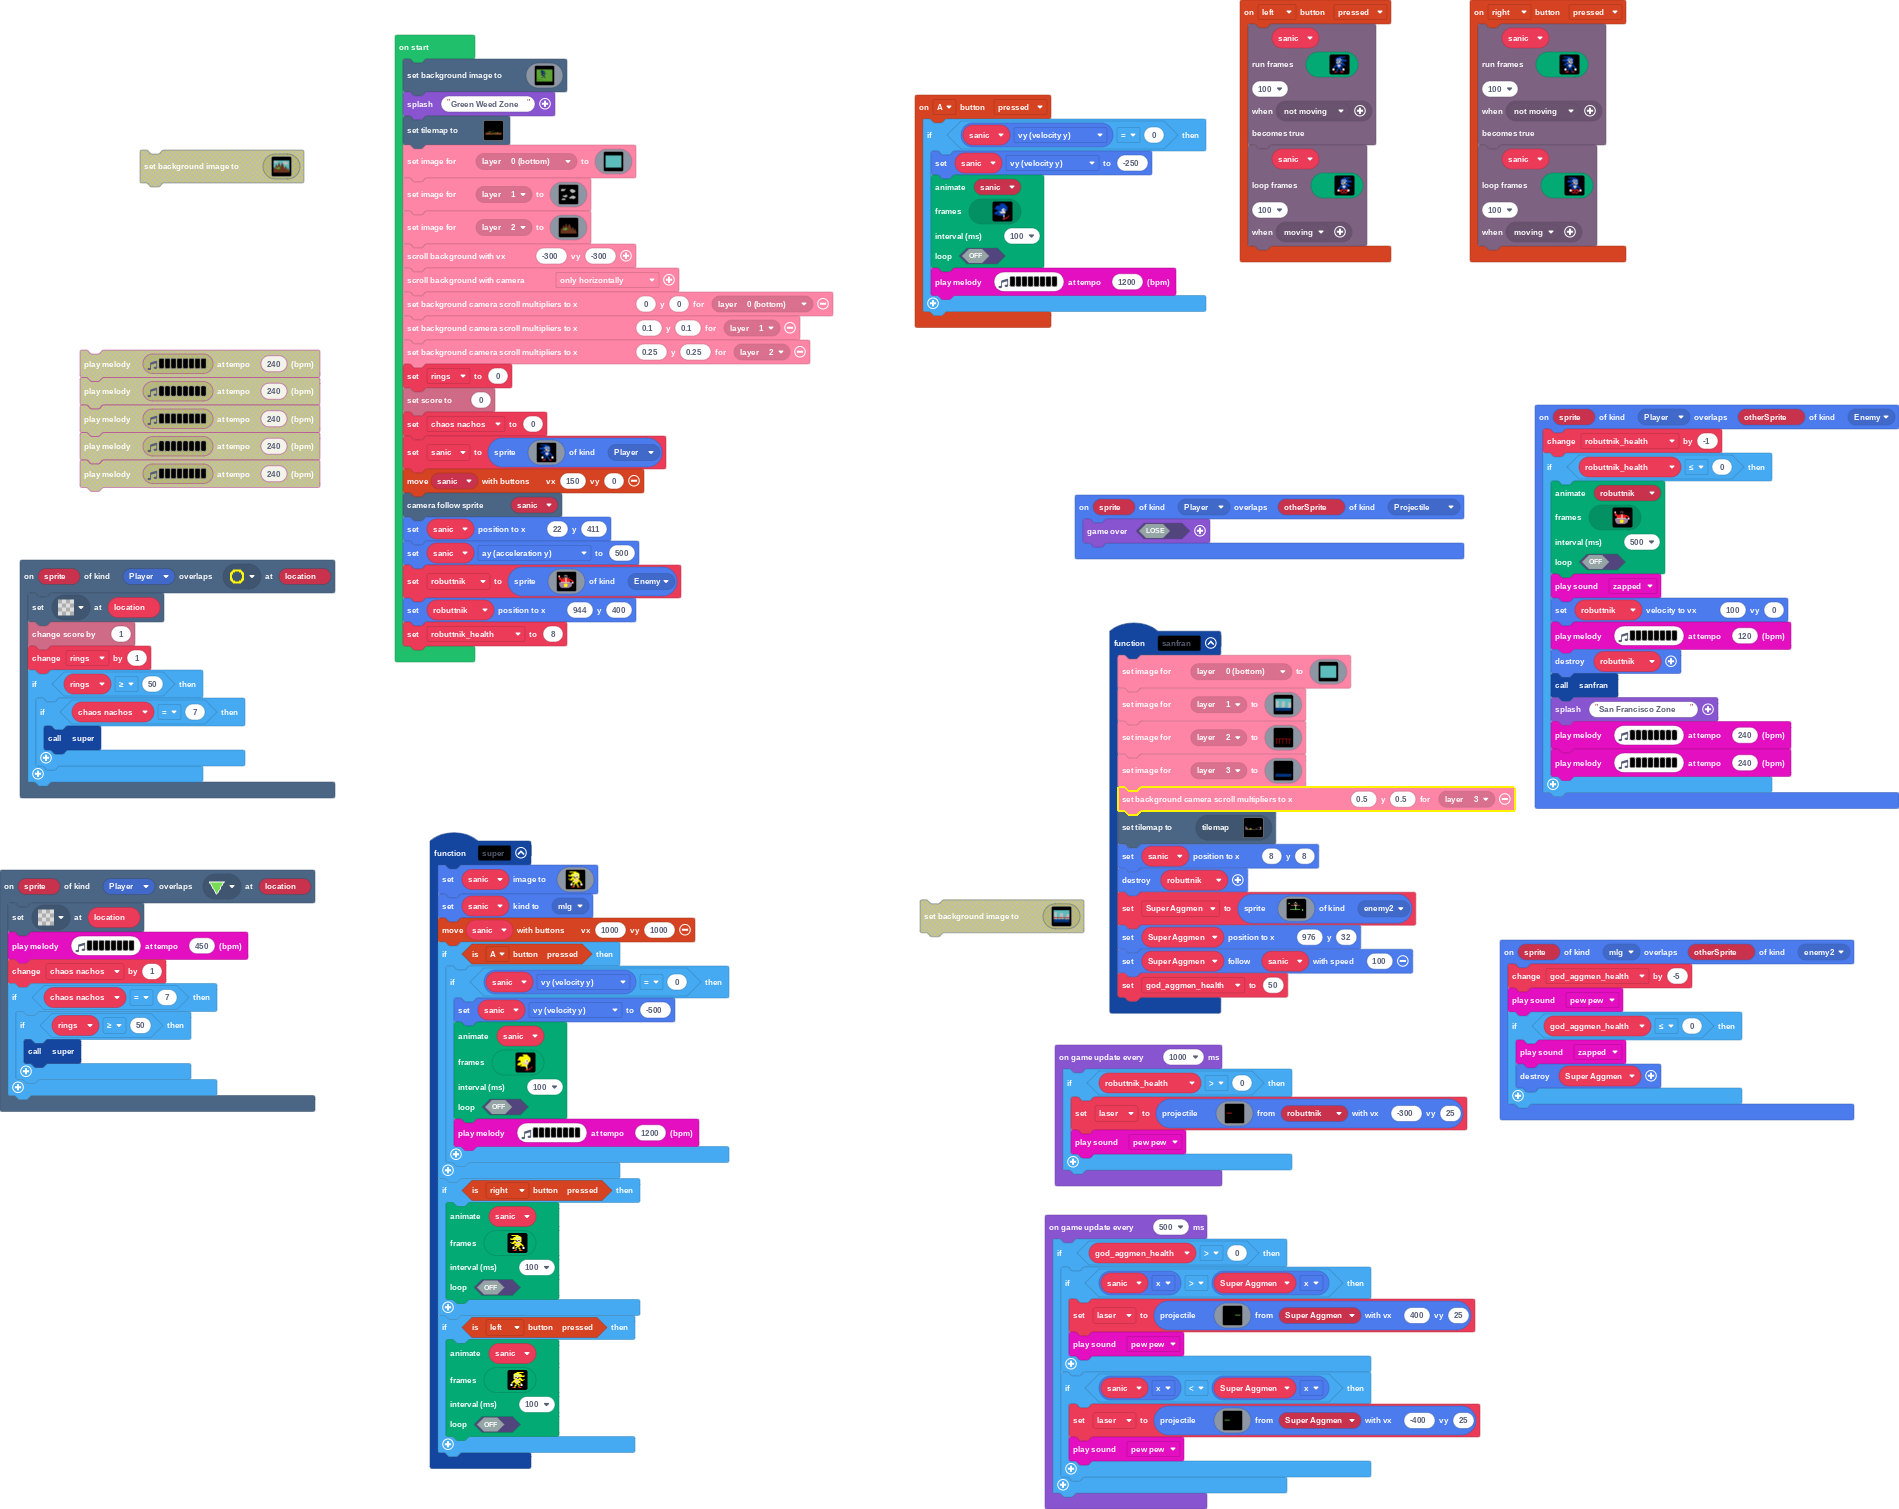
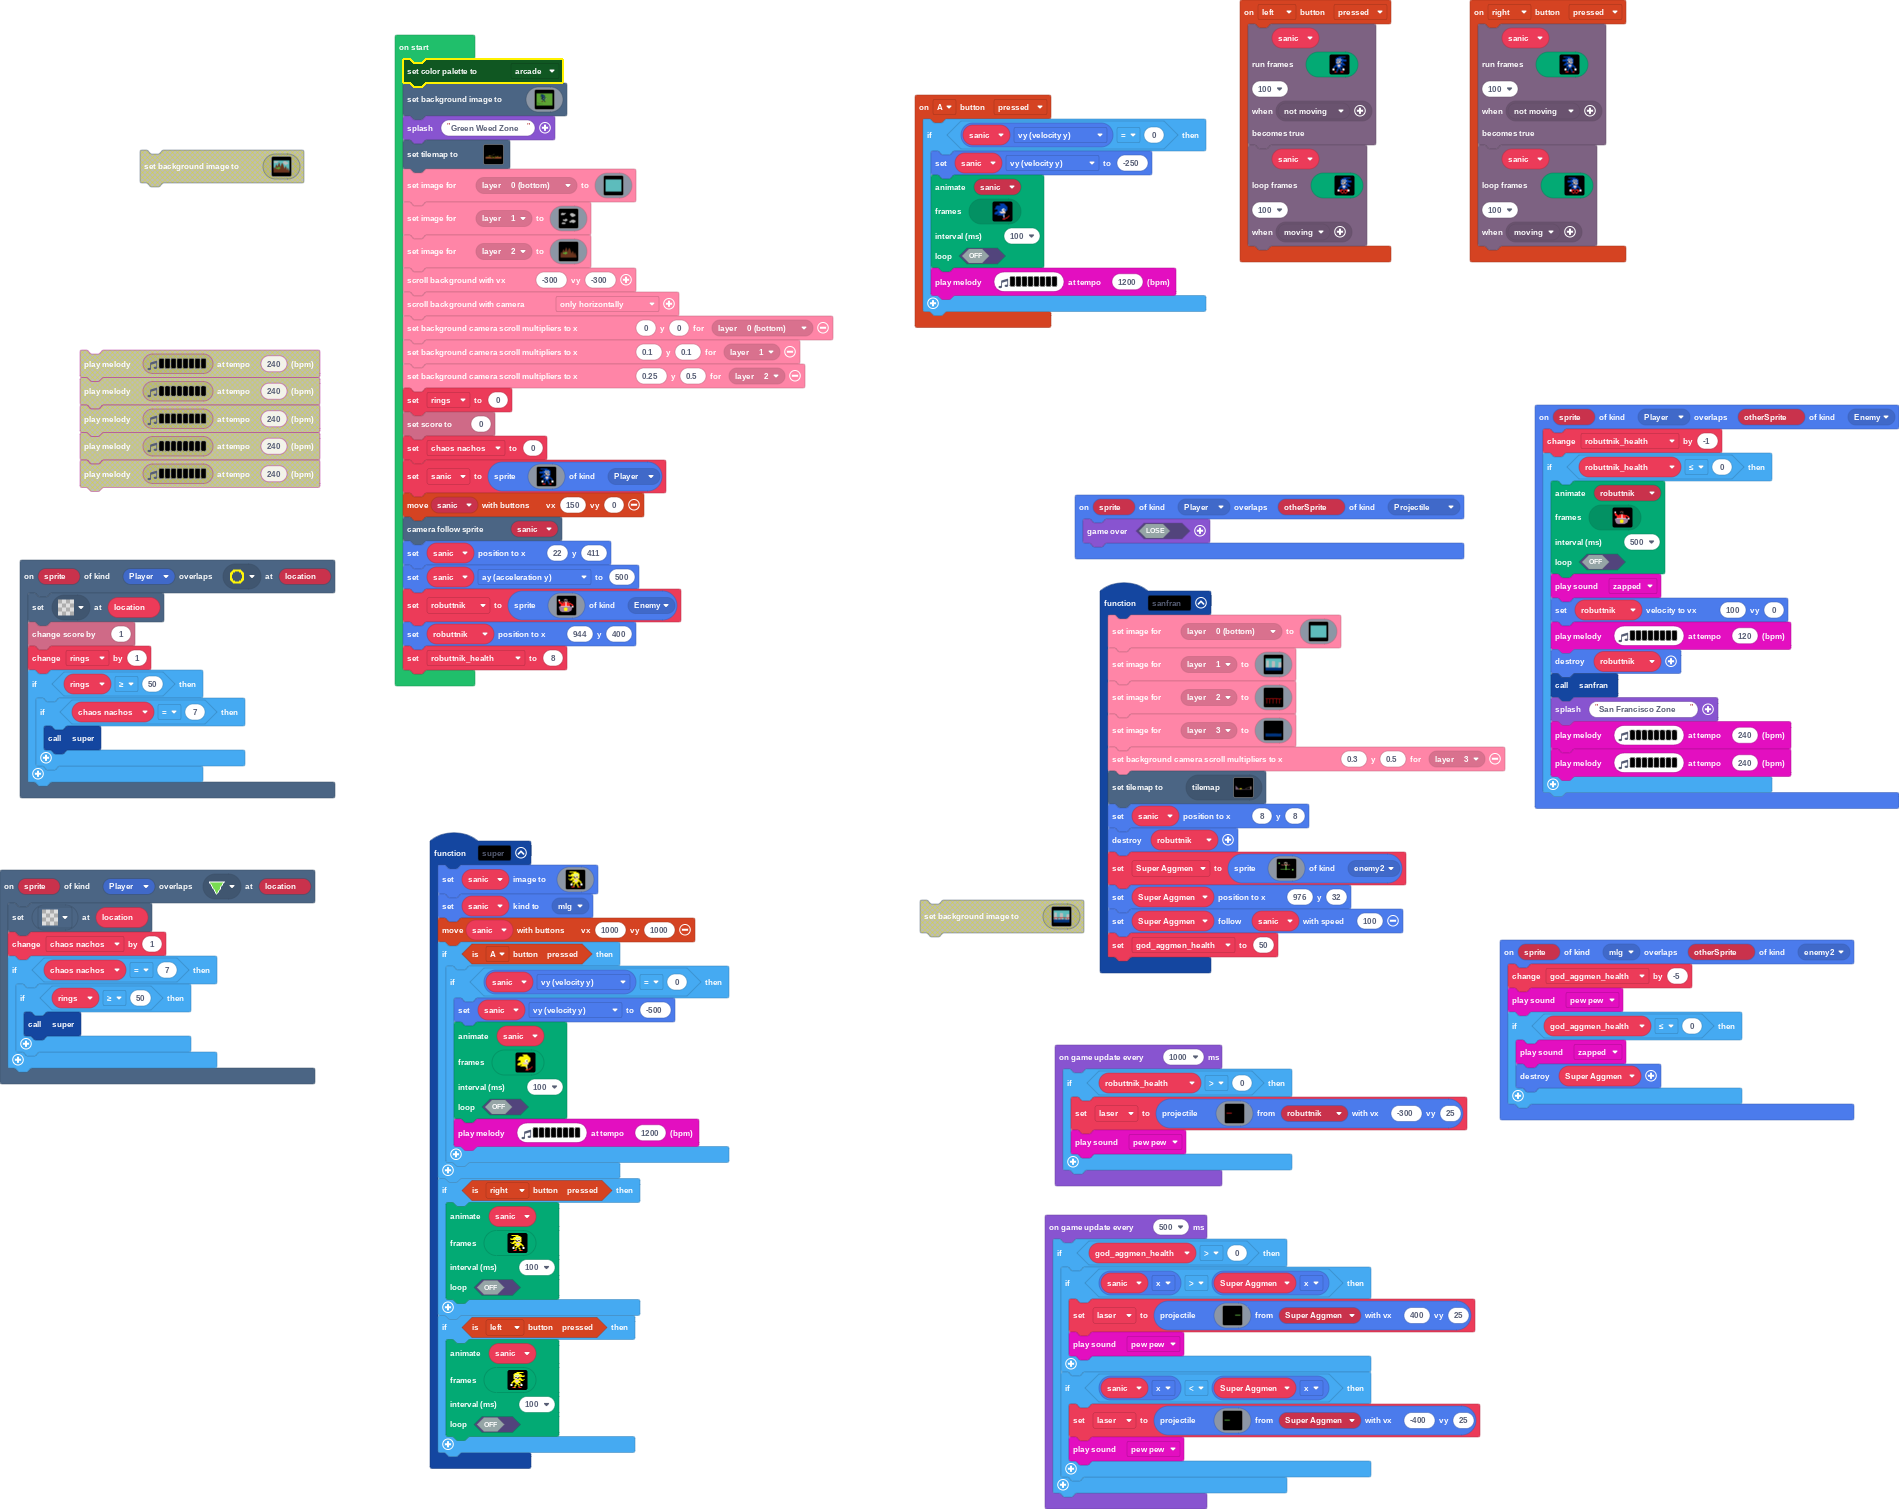
Update pxt.json, main.blocks, main.ts

Changed region(s): [[0.1864, 0.0311, 0.466, 0.4672], [0.5592, 0.3738, 0.8078, 0.6852], [0.0, 0.5918, 0.1864, 0.7475]]

diff --git a/main.ts b/main.ts
@@ -4,7 +4,6 @@ namespace SpriteKind {
 }
 scene.onOverlapTile(SpriteKind.Player, assets.tile`myTile1`, function (sprite, location) {
     tiles.setTileAt(location, assets.tile`transparency16`)
-    music.playMelody("E G C5 E - C - D ", 450)
     chaos_nachos += 1
     if (chaos_nachos == 7) {
         if (rings >= 50) {
@@ -501,7 +500,7 @@ function sanfran () {
         8888888888888888888888888888888888888888888888888888888888888888888888888888888888888888888888888888888888888888888888888888888888888888888888888888888888888888
         8888888888888888888888888888888888888888888888888888888888888888888888888888888888888888888888888888888888888888888888888888888888888888888888888888888888888888
         `)
-    scroller.setCameraScrollingMultipliers(0.5, 0.5, scroller.BackgroundLayer.Layer3)
+    scroller.setCameraScrollingMultipliers(0.3, 0.5, scroller.BackgroundLayer.Layer3)
     tiles.setCurrentTilemap(tilemap`level2`)
     sanic.setPosition(8, 8)
     robuttnik.destroy()
@@ -1224,6 +1223,9 @@ let robuttnik: Sprite = null
 let sanic: Sprite = null
 let chaos_nachos = 0
 let rings = 0
+color.setPalette(
+color.Arcade
+)
 scene.setBackgroundImage(img`
     7777777777777777777777777777777777777777777777777777777777777777777777777777777777777777777777777777777777777777777777777777777777777777777777777777777777777777
     7777777777777777777777777777777777777777777777777777777777777777777777777777777777777777777777777777777777777777777777777777777777777777777777777777777777777777
@@ -1718,7 +1720,7 @@ scroller.scrollBackgroundWithSpeed(-300, -300)
 scroller.scrollBackgroundWithCamera(scroller.CameraScrollMode.OnlyHorizontal)
 scroller.setCameraScrollingMultipliers(0, 0, scroller.BackgroundLayer.Layer0)
 scroller.setCameraScrollingMultipliers(0.1, 0.1, scroller.BackgroundLayer.Layer1)
-scroller.setCameraScrollingMultipliers(0.25, 0.25, scroller.BackgroundLayer.Layer2)
+scroller.setCameraScrollingMultipliers(0.25, 0.5, scroller.BackgroundLayer.Layer2)
 rings = 0
 info.setScore(0)
 chaos_nachos = 0
